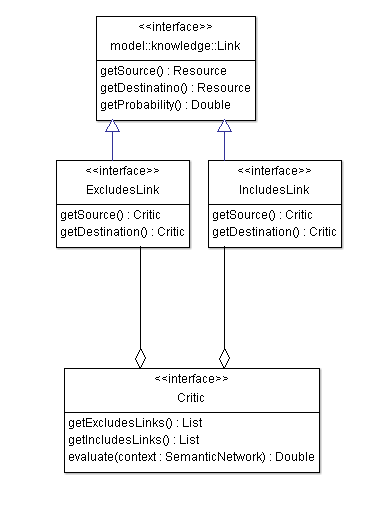
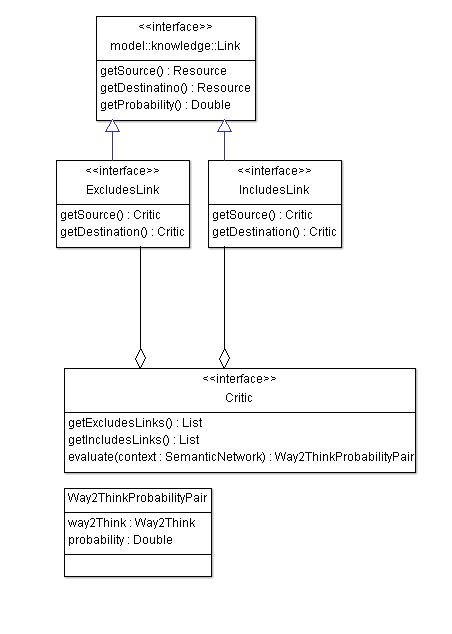
MENTA-24 - Design Way2Think Corrected the class diagram.

Changed region(s): [[0.1164, 0.0, 0.9312, 0.9358], [0.6111, 0.0604, 0.6402, 0.0906]]

diff --git a/doc/informal/critics.md b/doc/informal/critics.md
@@ -1,5 +1,14 @@
 # Critics design specification
 
+## Inbound data
+
+ 1. Context
+
+## Outbound data
+
+ 1. Probability: Double
+ 1. Way2Think
+
 ## Class diagram
 
 ![Critics Class](https://github.com/menta/menta-0.3/raw/master/doc/informal/uml/images/criticClass.png)
